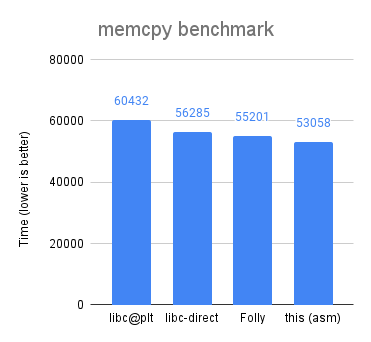
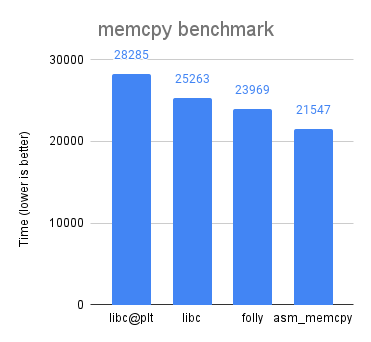
[doc] Update the graph with the reduced code of the nop function.

diff --git a/README.md b/README.md
@@ -24,6 +24,8 @@ value, this benchmark is more realistic and takes into account mispredicted
 branches and the performance of the cpu decoder. The buffers are in the size
 range 0 to 256. The random function is made of pre-computed random values, to
 lower the overhead of the random function.  This was suggested by Yann Collet.
+The 'nop' function is used to compute the benchmark setup overhead and call
+overhead, and the nop-cost is subtracted from all figures.
 
 ![memset](docs/memset_r.png) ![memcpy](docs/memcpy_r.png)
 
